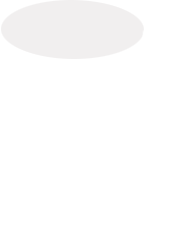
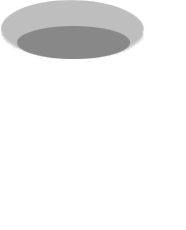
debutCafe

Changed region(s): [[0.0, 0.0, 0.7796, 0.2739]]

diff --git a/src/_component/Cafe.jsx b/src/_component/Cafe.jsx
@@ -1,10 +1,28 @@
-import "./Cafe.css"
-
+'use client'
+ 
+import "./Cafe.css";
+import { gsap } from "gsap";
+import { useRef } from "react";
+ 
 const Cafe = () => {
-
-    return (
-        <div className="CafeZone"></div>
-    );
-}
-
+  const cafeRef = useRef();
+ 
+  const handleClick = () => {
+   
+    gsap.to(cafeRef.current, {
+      scale: 1.2,        
+      duration: 0.5,    
+      ease: "power2.out"
+    });
+  };
+ 
+  return (
+    <div
+      className="CafeZone"
+      ref={cafeRef}
+      onClick={handleClick}
+    ></div>
+  );
+};
+ 
 export default Cafe;

diff --git a/src/_component/Cafe.css b/src/_component/Cafe.css
@@ -1,5 +1,13 @@
 .CafeZone {
-    width: 30%;
-    height: 20em;
-    background-color: red;
+ width: 186px;
+ height: 230px;
+  background-image: url('/img/cafevide.png');
+  background-size: cover;
+  background-position: center;
+  cursor: pointer;
+  transition: transform 0.3s ease;
+  margin: 0 auto;
+}
+body{
+    background-color: rgb(187, 179, 113);
 }
